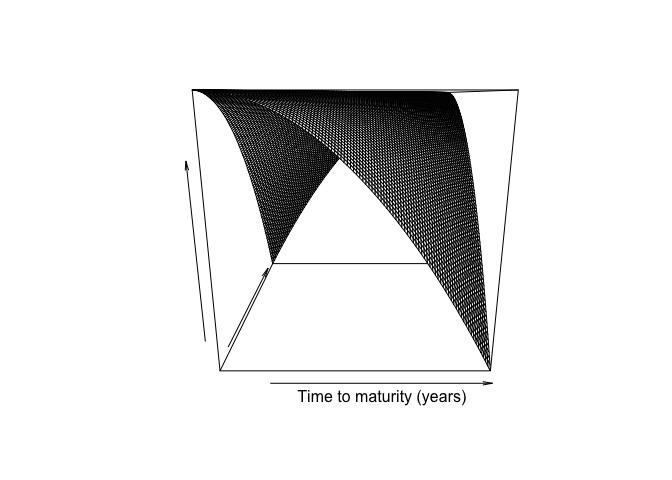
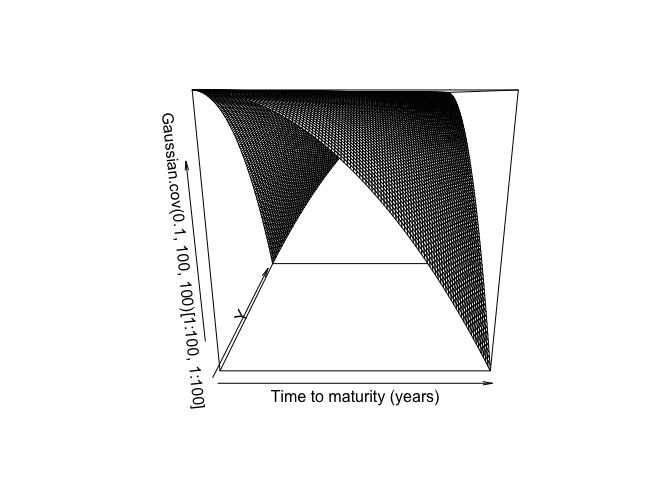
Added Functions Exponential.cov, integral.Exponential....

diff --git a/README.md b/README.md
@@ -55,7 +55,7 @@ integral kernel $q\in L^2([0,1]^2)$ taking the Gaussian form
 $$q(x,y)= \exp(-10 (x-y)^2)$$ which can be plotted:
 
 ``` r
-persp(x= (1:100/100), y= (1:100/100), z=  Gaussian.cov(.1,100,100)[1:100,1:100],xlab= "Time to maturity (years)",ylab= "",zlab = "")
+persp(z=  Gaussian.cov(.1,100,100)[1:100,1:100],xlab= "Time to maturity (years)")
 ```
 
 <img src="man/figures/README-unnamed-chunk-2-1.png" width="100%" />
